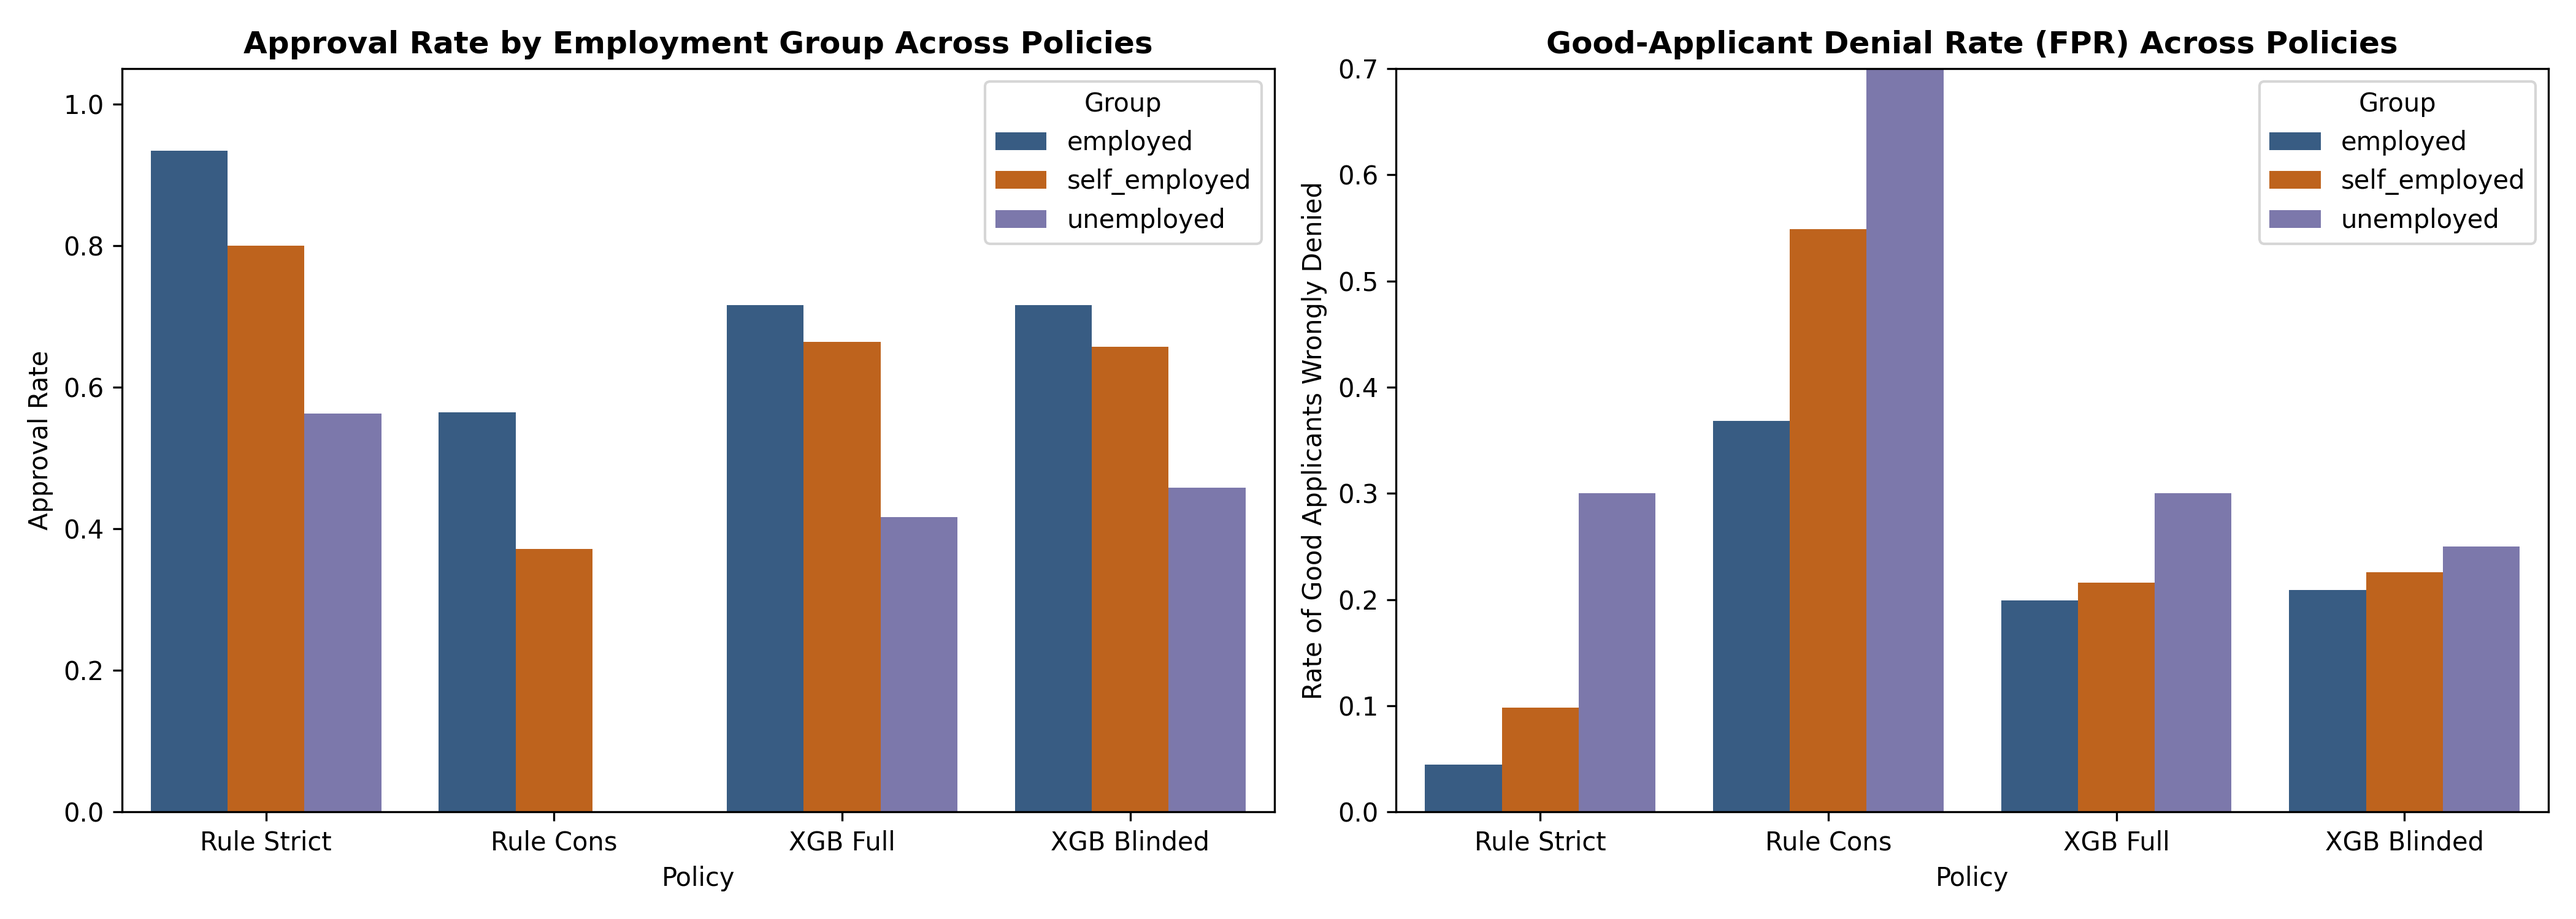
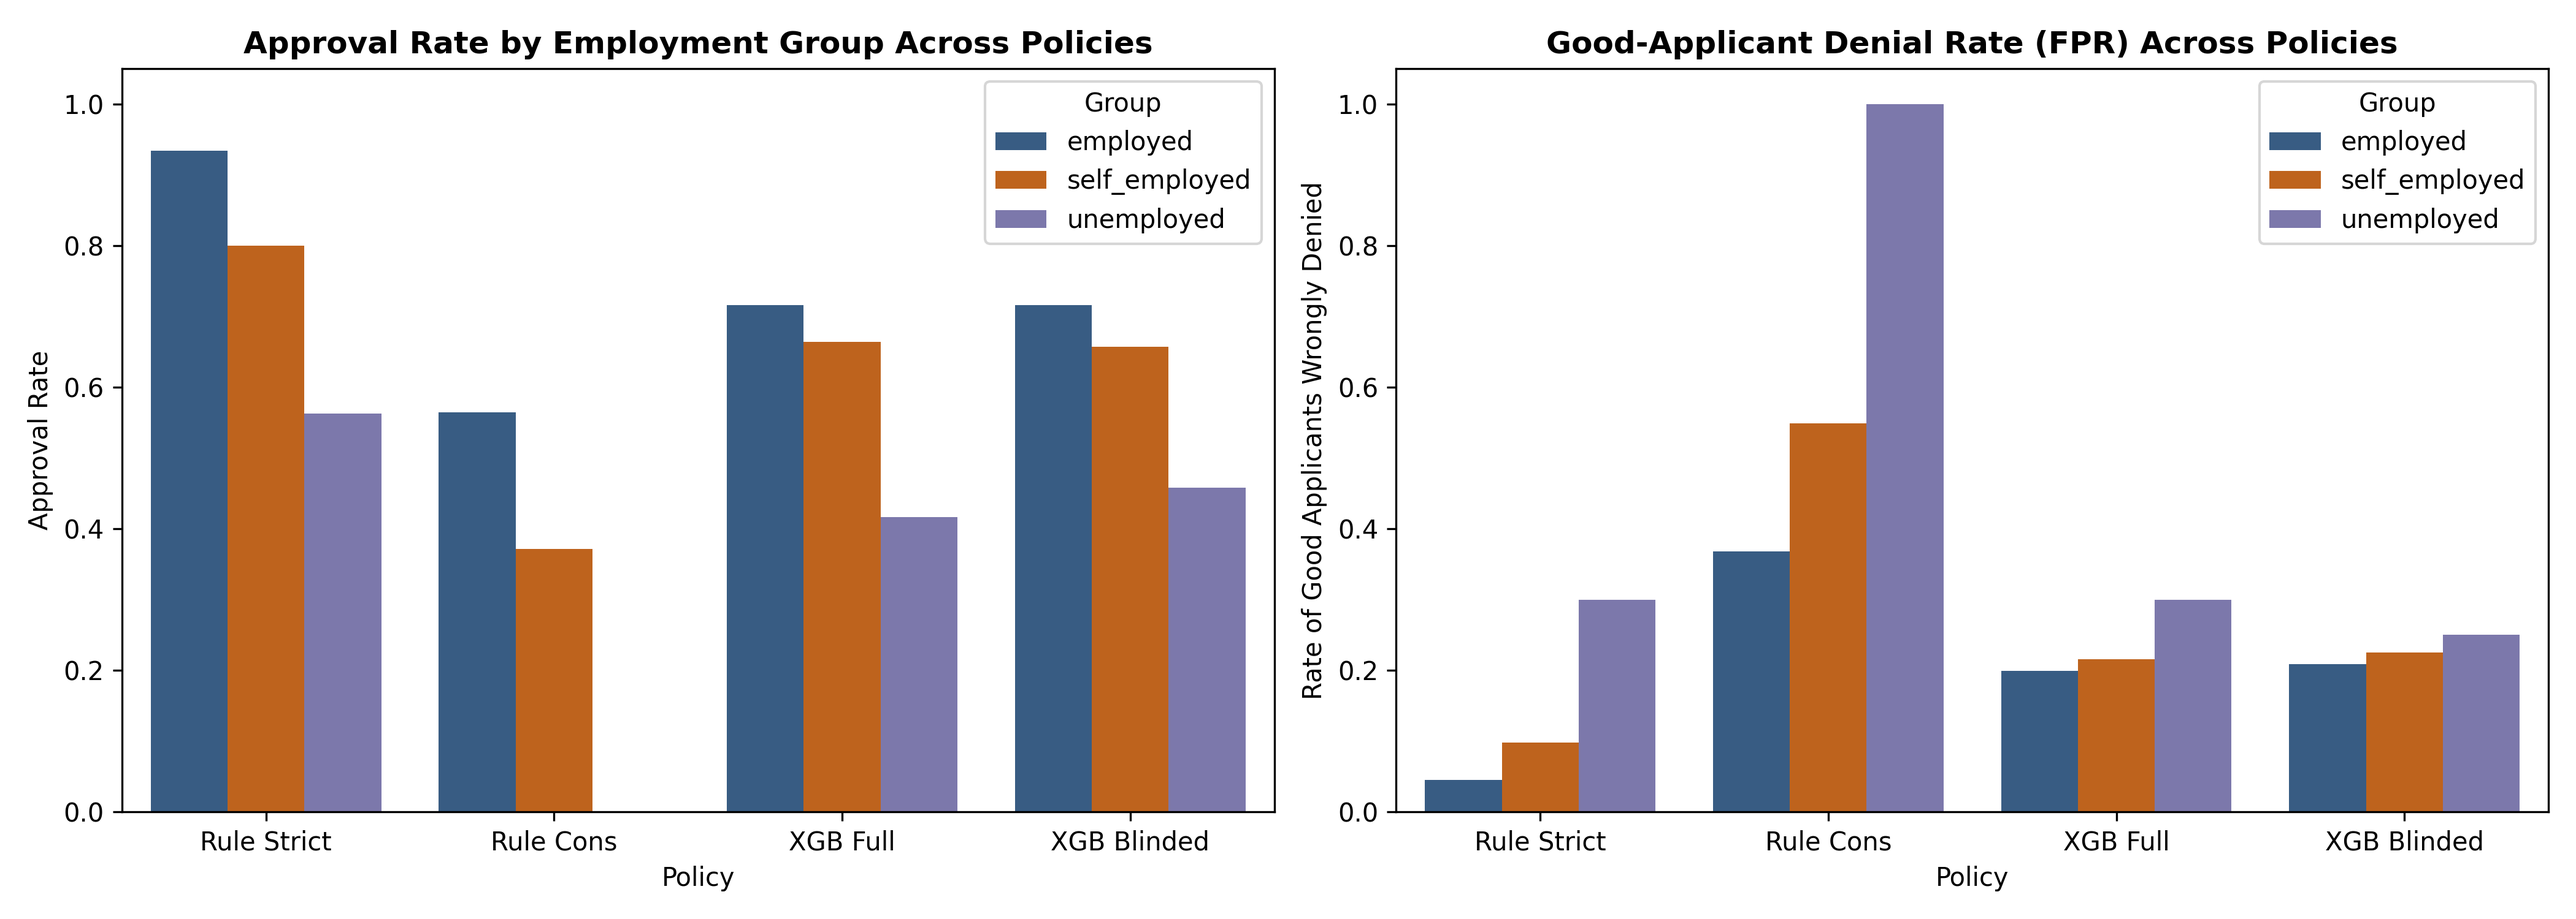
Final documentation and plotting polish: unclipped fairness plot y-axis, grounded economic claims, SHAP summary and ablation recommendation

diff --git a/src/fairness.py b/src/fairness.py
@@ -196,7 +196,7 @@ def run_fairness_analysis(
     axes[1].set_title("Good-Applicant Denial Rate (FPR) Across Policies",
                        fontsize=12, fontweight="bold")
     axes[1].set_ylabel("Rate of Good Applicants Wrongly Denied")
-    axes[1].set_ylim(0, 0.7)
+    axes[1].set_ylim(0, 1.05)
 
     plt.tight_layout()
     fairness_plot_path = os.path.join(plot_dir, "fairness_disparate_impact.png")

diff --git a/README.md b/README.md
@@ -6,6 +6,8 @@ A reproducible, modular Python pipeline that trains, evaluates, and audits an ML
 
 ## Quickstart & Reproduction
 
+**Environment Note**: Tested with Python 3.12+ (Miniconda). Pinned dependencies (including `shap==0.54.1`) require Python 3.12 or newer.
+
 ```bash
 # 1. Install locked dependencies
 pip install -r requirements.txt
@@ -29,23 +31,34 @@ pytest tests/
 
 * **Default Prevalence**: The prompt mentions "~14% default", but the actual generator yields **27.25% overall** (545 of 2,000) and **29.7% on resolved loans** (545 of 1,836).
 * **Missing Documentation & Discrepancy**: 283 applicants (14.1%) submit zero documents, causing `documented_monthly_income` to be null. We impute this with 0.0 and flag it via `is_doc_missing = 1`. In the full dataset, among the 1,717 applications with documentation, 85 show an income discrepancy ratio $\ge 2.5\times$ and 56 show $\ge 3.0\times$. The rule's 10% tolerance boundary on stated income corresponds to an upper ratio of $1 / 0.9 \approx 1.111$.
-* **Ongoing Applications**: In the generator script, `ongoing` status is assigned independently after latent outcomes are generated, making label availability **Missing Completely At Random (MCAR) by construction**. Excluding ongoing loans ($N=164$) from supervised training causes zero selection bias in expectation. In production lending, however, excluding immature loans introduces seasoning/survivorship bias.
+* **Ongoing Applications**: In the generator script, `ongoing` status is assigned independently after latent outcomes are generated, making label availability **Missing Completely At Random (MCAR) by construction**. Excluding ongoing loans ($N=164$) from supervised training causes zero selection bias in expectation. In production, excluding unresolved loans can introduce seasoning or selection bias, depending on the outcome horizon and cohort construction.
 * **Why No Survival Analysis**: `days_to_default` was generated as uniform random integers (`randint(15, 180)`) independent of risk, with no observation windows or censoring dates for non-defaulters. Fitting survival models on this variable is invalid.
 * **Leakage Controls & Single Frozen Split**: Resolved applications ($N=1{,}836$) are split into a stratified 75/25 holdout (1,377 train / 459 test, seed 42). Target (`actual_outcome`), proxy duration (`days_to_default`), identifiers, and rule decisions are strictly excluded from features. For logistic regression, preprocessing is cross-validated inside the hyperparameter grid search (`GridSearchCV`) to avoid internal scaling leakage across CV folds.
 
 ---
 
-### 2. Candidate Models & Operating Threshold
+### 2. Candidate Models, Feature Importance & Operating Threshold
 
 * **Architectures Tested**:
   1. *Regularized Logistic Regression*: L2 penalty tuned via 5-fold CV ($C = 0.1668$).
   2. *Shallow XGBoost*: Constrained to `max_depth=3`, `subsample=0.85`, `colsample_bytree=0.85`, `min_child_weight=3`, `learning_rate=0.05`, 60 estimators.
+* **Feature Importance (TreeSHAP)**:
+  Examining global mean absolute SHAP values on the holdout (`plots/shap_feature_importance.png`) reveals that default risk is driven primarily by:
+  1. `loan_to_income_ratio` (0.508 mean |SHAP| in log-odds)
+  2. `doc_income_imputed` (0.283 log-odds)
+  3. `bank_has_overdrafts` (0.201 log-odds)
+  4. `income_discrepancy_ratio` (0.099 log-odds)
+  5. `bank_ending_balance` (0.097 log-odds)
+  These attributions verify that the tree model learned risk directly from cash-flow capacity and liquidity distress rather than spurious noise.
 * **Single Shared Operating Threshold (0.35)**:
-  Both ML models are evaluated at an explicit decision threshold of **0.35**, chosen as a balanced operating point approximating the training default prevalence (~30%). This threshold is defined once in `src/models.py` and passed to all downstream evaluation, fairness, and explainability modules. It was selected prior to test-set inspection and is **not an EV-optimized threshold** (under $M=\$100, L=\$1{,}000$, a pure risk-neutral expected value policy would approve only when $p < \frac{100}{100+1000} \approx 9.1\%$).
+  Both ML models are evaluated at an illustrative, non-optimized decision threshold of **0.35**, approximating the training default prevalence (~30%). This threshold is defined once in `src/models.py` and passed to all downstream evaluation, fairness, and explainability modules. It is **not an EV-optimized threshold** (under $M=\$100, L=\$1{,}000$, a pure risk-neutral expected value policy would approve only when $p < \frac{100}{100+1000} \approx 9.1\%$).
 
 ---
 
 ### 3. Model Performance & Economic Comparison
+
+#### Policy Mappings
+For binary evaluation, **Deny-Only** treats legacy denials as positive predictions (flagged for default) and groups reviews with approvals; **Review-or-Deny** treats both reviews and denials as positive predictions. These are analytical mappings, not observed final outcomes of manual review.
 
 #### Holdout Test Performance ($N=459$: 136 defaults, 323 repaid)
 
@@ -72,7 +85,7 @@ Scenario calculation assuming contribution margin $M=\$100$ per approved good lo
 | **Reject Everyone** (reference) | 0 | 0 | **$0** |
 
 #### Economic Analysis & Tradeoffs
-1. **XGBoost vs. Deny-Only Rule**: XGBoost catches $+42$ additional defaults while denying $+43$ additional good applicants. The incremental net value $\Delta EV = 42L - 43M$ is positive if and only if $\frac{L}{M} > \frac{43}{42} \approx 1.02$. Because consumer loan principal losses typically exceed origination margins by $5\times\text{--}15\times$, XGBoost substantially improves contribution over Deny-Only.
+1. **XGBoost vs. Deny-Only Rule**: XGBoost catches $+42$ additional defaults while denying $+43$ additional good applicants. Under the illustrative $L/M=10$ scenario, XGBoost improves contribution relative to Deny-Only. The improvement remains positive whenever $L/M > 43/42 \approx 1.02$.
 2. **Review-or-Deny vs. XGBoost**: Review-or-Deny catches $+20$ additional defaults but denies $+82$ good applicants ($\frac{L}{M} > \frac{82}{20} = 4.10$). Because our assumed $\frac{L}{M} = 10.0 > 4.10$, **Review-or-Deny exhibits the highest contribution of any active policy in this scenario**. XGBoost at 0.35 was chosen to balance precision and recall, not to maximize expected value under an extreme loss-ratio assumption.
 3. **Reject-Everyone Reference**: Under this simplified P&L, all active policies produce negative net contribution due to the high test default prevalence (29.7%) and severe loss assumption. Rejecting everyone generates \$0, but ceases all lending operations.
 4. **Governance**: Credit Risk leadership and the CRO decide the threshold based on risk appetite, target loss rates, and capital constraints.
@@ -91,7 +104,7 @@ Scenario calculation assuming contribution margin $M=\$100$ per approved good lo
 Per-group confusion counts sum exactly to the overall model performance counts: $\sum \text{TP} = 37 + 25 + 22 = 84$; $\sum \text{FP} = 40 + 22 + 6 = 68$.
 
 | Group | Count | Default Rate | Approval Rate | Good Denied Rate (FPR) | Default Catch Rate (Recall) | TP | FP | TN | FN |
-| :--- | :---: | :---: | :---: | :---: | :---: | :---: | :---: | :---: | :---: |
+| :--- | :---: | :---: | :---: | :---: | :---: | :---: | :---: | :---: | :---: | :---: |
 | **Employed** | 271 | 25.8% | 71.6% | 19.9% | 52.9% | 37 | 40 | 161 | 33 |
 | **Self-Employed** | 140 | 27.1% | 66.4% | 21.6% | 65.8% | 25 | 22 | 80 | 13 |
 | **Unemployed** | 48 | 58.3% | 41.7% | 30.0% | 78.6% | 22 | 6 | 14 | 6 |
@@ -102,12 +115,12 @@ Per-group confusion counts sum exactly to the overall model performance counts: 
 - **XGBoost (Full Model)**: $66.4\% / 71.6\% = \mathbf{0.928}$
 - **XGBoost (Blinded: No Employment Feature)**: $65.7\% / 71.6\% = \mathbf{0.918}$
 
-#### Ablation: Removing Employment Status
+#### Ablation: Removing Employment Status & Recommendation
 Training a blinded model without `employment_status` on the identical frozen split yields:
 - 21 prediction disagreements out of 459 test instances (4.6%).
 - Maximum absolute probability difference: $0.0940$.
 - ROC-AUC: $0.7606$ (full) vs. $0.7557$ (blinded).
-- **Assessment**: Removing employment status eliminates its explicit use as a model input; proxy effects and legal implications remain outside the conclusions established here.
+- **Recommendation**: Removing employment status did not improve the measured approval ratio in this experiment (0.918 vs. 0.928) and slightly reduced observed ROC-AUC (0.7557 vs. 0.7606). I would not claim either variant is demonstrably fairer from this small holdout. Employment's explicit use should remain a policy-review question, with group outcomes monitored under either choice.
 
 ---
 
@@ -125,7 +138,8 @@ Using TreeSHAP in log-odds space (base value: $-0.8706$, additivity MAE: $0.0000
   $$\text{logit}(P_{\text{new}}) = \text{logit}(P_{\text{base}}) + \ln\left(\frac{\pi_{\text{new}}}{1 - \pi_{\text{new}}}\right) - \ln\left(\frac{\pi_{\text{base}}}{1 - \pi_{\text{base}}}\right)$$
 - If the recession induces covariate shift or concept drift, prior correction alone is insufficient. Unconstrained decision trees do not guarantee monotonic risk responses to balance declines without explicit monotonicity constraints.
 
-#### Deployment Checklist (Day-1 Failure Modes)
+#### Deployment Checklist (Day-1 Failure Modes) & Limitations
 1. **Reject Inference**: Production historical data only has repayment labels for *approved* applicants. Retraining solely on approved loans introduces severe truncation bias.
 2. **Feature Parity**: Verify bank transaction aggregations (e.g. deposit consistency, overdraft definitions) match production core banking APIs.
 3. **Shadow Mode**: Deploy the ML pipeline in silent shadow execution for 60–90 days to evaluate calibration and drift (monitoring Population Stability Index on key cash-flow features, flagging $PSI > 0.25$) before cutover.
+4. **Scope & Limitations**: Results are point estimates from one synthetic holdout; probability calibration and uncertainty in model differences have not been fully assessed.
